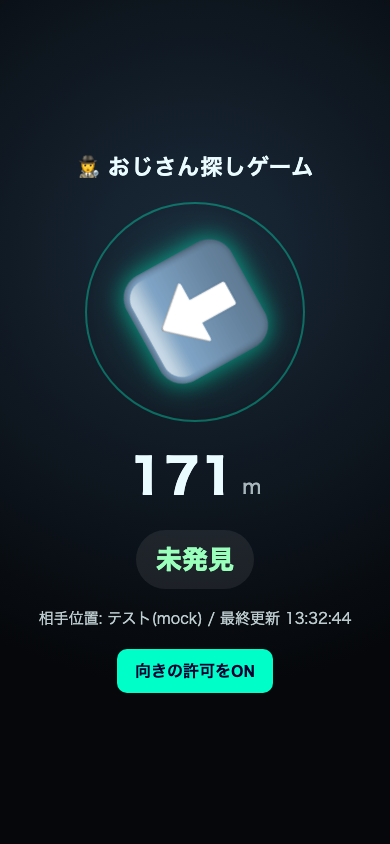
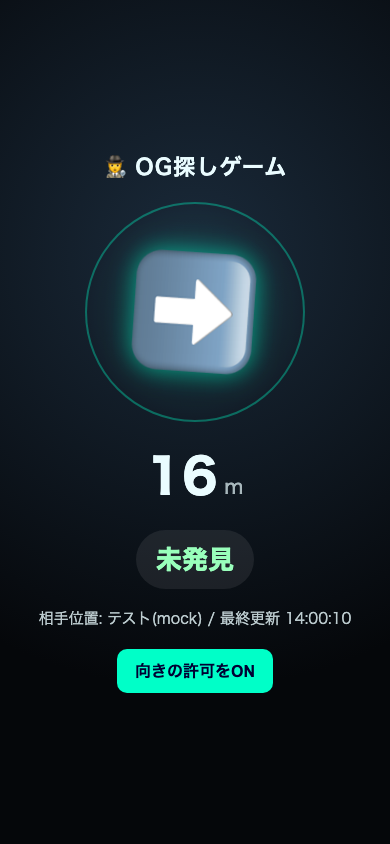
Rename game to OG探しゲーム in user-facing text
Fix incorrect naming: おじさん探し -> OG探し across README, AGENTS.md,
package.json description, the GitHub Pages demo, and the Worker's
phone-facing HTML. Internal identifiers (wrangler.toml name, OJISAN_KV
binding, User-Agent strings, npm package names) are left untouched
since changing them would change the production URL.

Claude-Session: https://claude.ai/code/session_01K4opXKtgtxi9d8Z7rB7CTL

diff --git a/docs/index.html b/docs/index.html
@@ -3,7 +3,7 @@
 <head>
 <meta charset="UTF-8">
 <meta name="viewport" content="width=device-width, initial-scale=1, viewport-fit=cover">
-<title>おじさん探し - ブラウザだけで動くデモ</title>
+<title>OG探し - ブラウザだけで動くデモ</title>
 <meta name="description" content="gmaps-share-finder のブラウザだけで動くモック画面。実際のWorkerやアカウントには接続しません。">
 <style>
   :root { color-scheme: dark; }
@@ -34,7 +34,7 @@
 </style>
 </head>
 <body>
-  <h1>🕵 おじさん探し - DEMO</h1>
+  <h1>🕵 OG探し - DEMO</h1>
   <div id="banner">
     これはブラウザだけで動くモック画面です。実際のCloudflare Workerやアカウントには一切接続していません。表示している座標・距離もすべてダミーです。<br><br>
     This is a fully mocked, client-side-only preview. It never connects to a real Worker, account, or coordinates.

diff --git a/worker/src/index.js b/worker/src/index.js
@@ -151,7 +151,7 @@ const HTML_PAGE = String.raw`<!DOCTYPE html>
 <head>
 <meta charset="UTF-8">
 <meta name="viewport" content="width=device-width, initial-scale=1, viewport-fit=cover">
-<title>おじさん探し</title>
+<title>OG探し</title>
 <style>
   :root { color-scheme: dark; }
   * { box-sizing: border-box; }
@@ -180,7 +180,7 @@ const HTML_PAGE = String.raw`<!DOCTYPE html>
 </style>
 </head>
 <body>
-  <h1>🕵 おじさん探しゲーム</h1>
+  <h1>🕵 OG探しゲーム</h1>
   <div id="arrow-wrap"><div id="arrow">⬆</div></div>
   <div id="distance">--<small> m</small></div>
   <div id="judge" class="notfound">未発見</div>

diff --git a/README.md b/README.md
@@ -1,4 +1,4 @@
-# おじさん探しゲーム (gmaps-share-finder)
+# OG探しゲーム (gmaps-share-finder)
 
 [![CI](https://github.com/Ryoseiimai/gmaps-share-finder/actions/workflows/ci.yml/badge.svg)](https://github.com/Ryoseiimai/gmaps-share-finder/actions/workflows/ci.yml)
 [![Open in GitHub Codespaces](https://github.com/codespaces/badge.svg)](https://codespaces.new/Ryoseiimai/gmaps-share-finder)

diff --git a/AGENTS.md b/AGENTS.md
@@ -6,7 +6,7 @@ a technical overview.
 
 ## What this project is
 
-`gmaps-share-finder` ("おじさん探しゲーム") is a small real-life hide-and-seek
+`gmaps-share-finder` ("OG探しゲーム") is a small real-life hide-and-seek
 game built on Google Maps' "Share your real-time location" feature. See
 [README.md](README.md) for the full picture and diagram.
 
